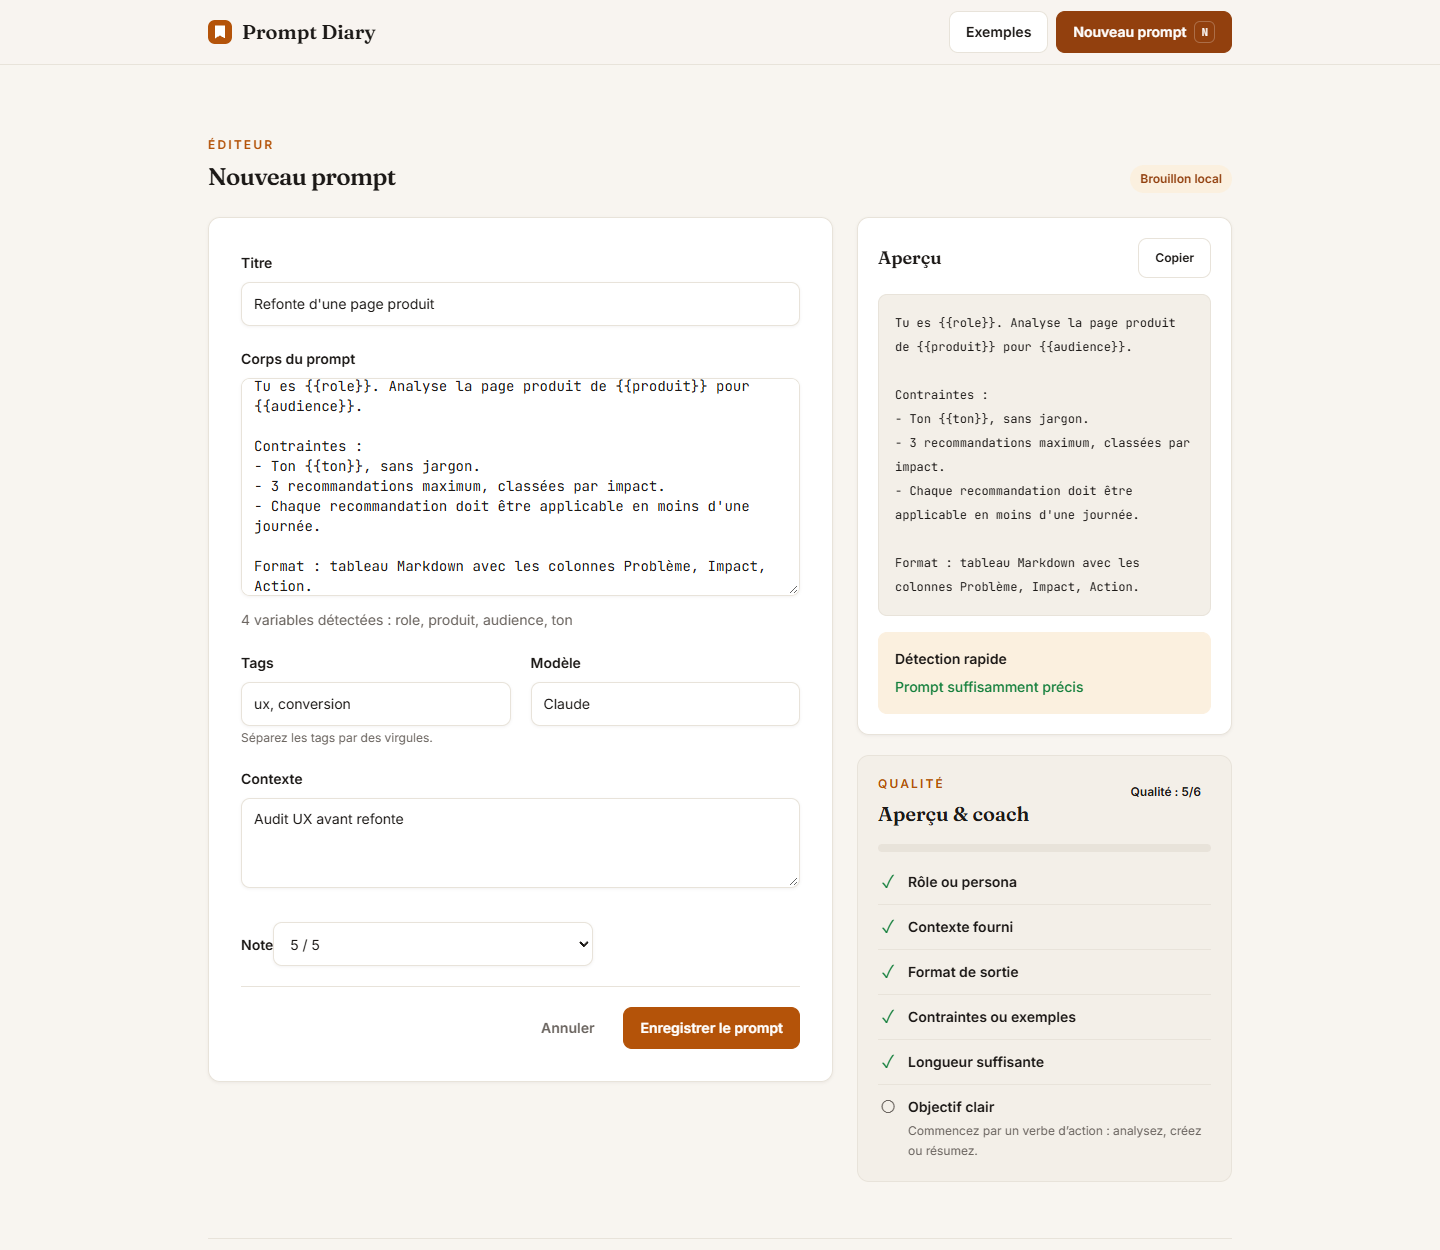
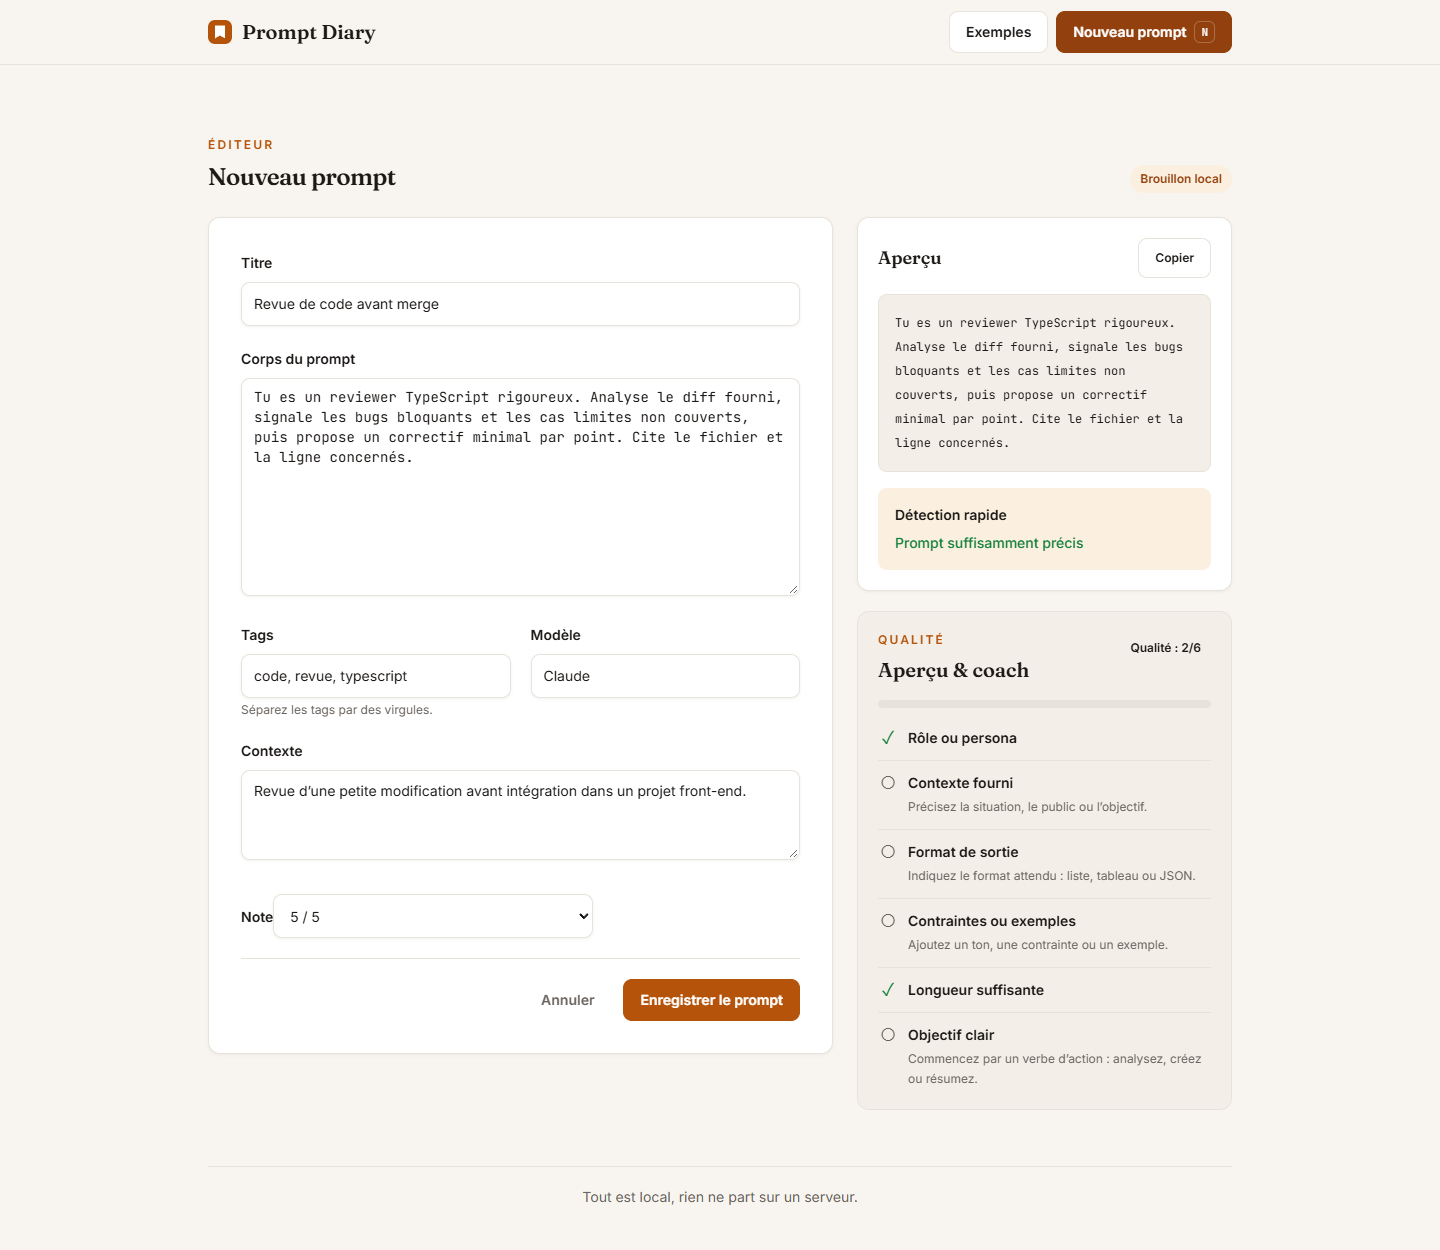
docs: rafraichir les captures avec la nouvelle interface

diff --git a/README.md b/README.md
@@ -25,9 +25,9 @@ Journal local-first de prompts : sauvegardez ce qui fonctionne, notez-le, retrou
 - **Accessibilité AA** : navigation clavier, focus visibles, modale avec piège de focus, contrastes vérifiés.
 - **Installable et hors ligne** après la première visite (manifest + service worker en production).
 
-| Détail et historique d'usage                       | Éditeur et coach qualité                          |
-| -------------------------------------------------- | ------------------------------------------------- |
-| ![Détail d'un prompt](docs/screenshots/detail.png) | ![Éditeur de prompt](docs/screenshots/editor.png) |
+| Détail et historique d'usage                       | Éditeur et coach qualité                          | Statistiques locales                        |
+| -------------------------------------------------- | ------------------------------------------------- | ------------------------------------------- |
+| ![Détail d'un prompt](docs/screenshots/detail.png) | ![Éditeur de prompt](docs/screenshots/editor.png) | ![Statistiques](docs/screenshots/stats.png) |
 
 ## Démarrage
 
